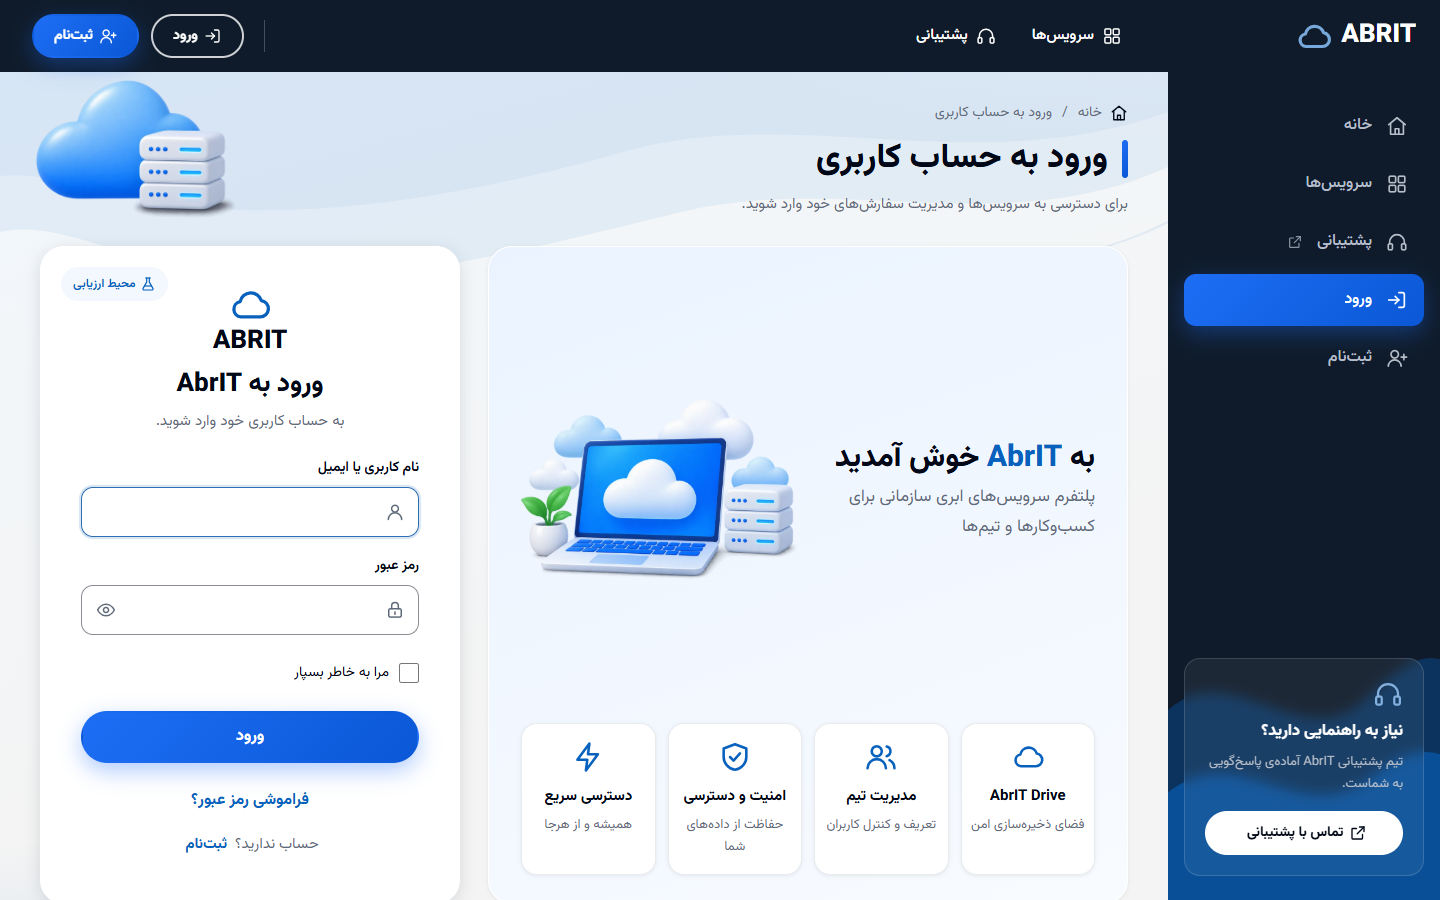
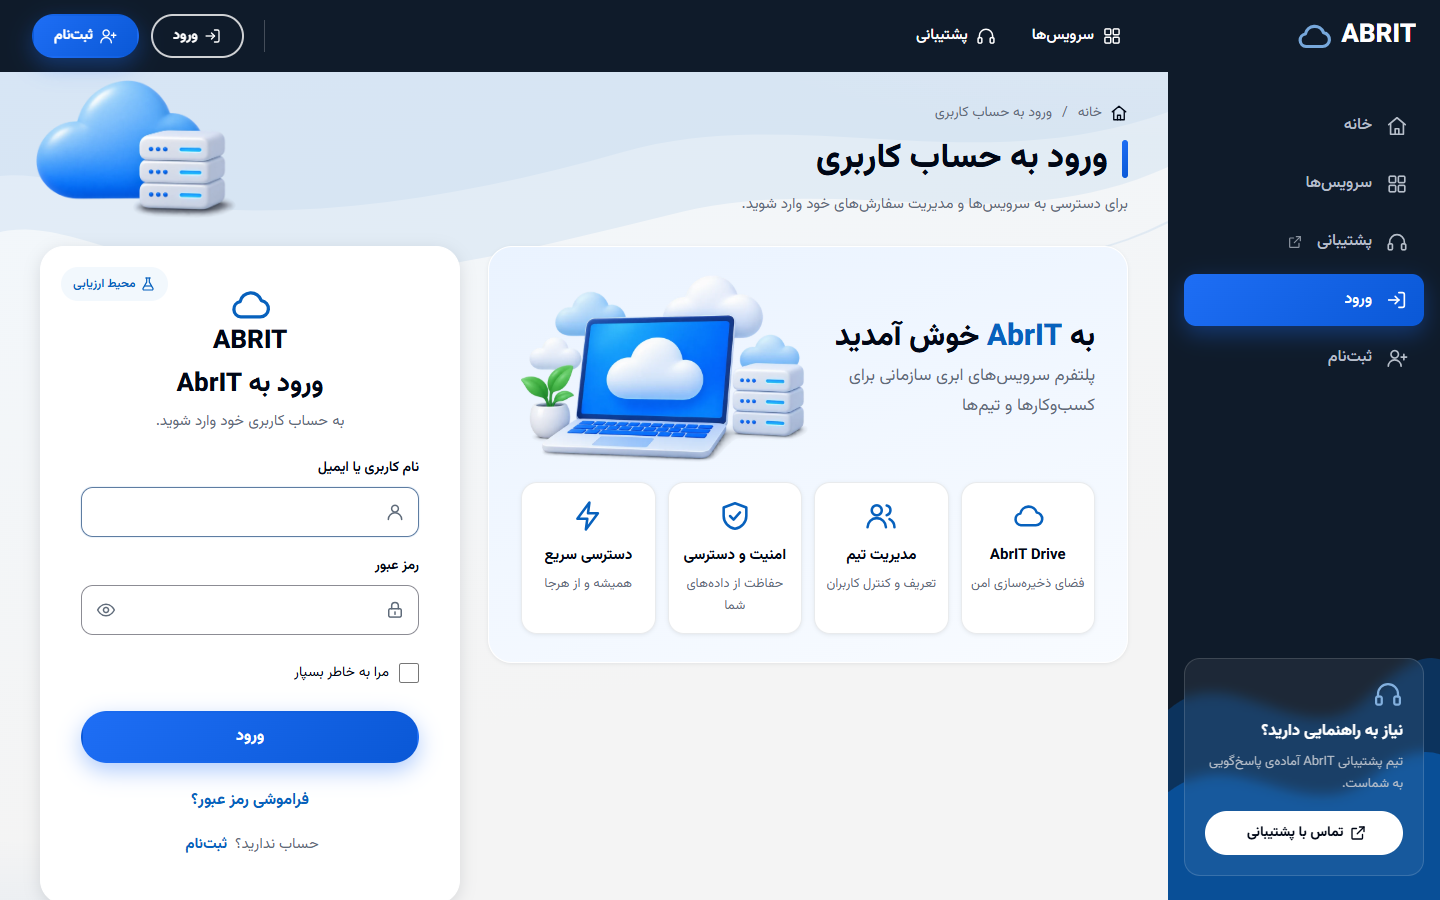
style(theme): tighten auth hero cards

diff --git a/src/AbrIT.Theme/wwwroot/css/theme.css b/src/AbrIT.Theme/wwwroot/css/theme.css
@@ -353,16 +353,18 @@ body.abr-noscroll{overflow:hidden}
 
 /* ---- Auth pages ---- */
 .abr-authpage{display:flex;flex-direction:column;gap:28px}
-.abr-auth-split{display:grid;grid-template-columns:minmax(0,1fr) minmax(360px,420px);gap:28px;align-items:stretch}
+.abr-auth-split{display:grid;grid-template-columns:minmax(0,1fr) minmax(360px,420px);gap:28px;align-items:start}
 .abr-hero{background:var(--abr-hero-gradient);border:1px solid var(--abr-surface);border-radius:24px;box-shadow:var(--abr-shadow-1);padding:28px 32px;display:flex;flex-direction:column;gap:20px}
-.abr-hero__top{flex:1;display:grid;grid-template-columns:minmax(0,1fr) 48%;gap:12px;align-items:center}
+.abr-hero__top{display:grid;grid-template-columns:minmax(0,1fr) 50%;gap:16px;align-items:center}
 .abr-hero__title{font-size:30px;line-height:46px;font-weight:var(--abr-fw-heavy);text-wrap:balance}
 .abr-hero__brand{color:var(--abr-primary)}
 .abr-hero__sub{margin-top:10px;color:var(--abr-text-2);font-size:17px;line-height:30px}
 .abr-hero__art img{width:100%;height:auto;display:block;margin-inline-end:-8px}
 /* tall card (register, ref 02): illustration on top, centred text under it */
+.abr-auth-split--tall{align-items:stretch}
+.abr-auth-split--tall .abr-hero{justify-content:flex-start;gap:24px}
 .abr-auth-split--tall .abr-hero__top{grid-template-columns:1fr;justify-items:center;text-align:center;align-content:center;gap:8px}
-.abr-auth-split--tall .abr-hero__art{order:-1;width:78%}
+.abr-auth-split--tall .abr-hero__art{order:-1;width:64%}
 .abr-auth-split--tall .abr-hero__title{font-size:34px;line-height:50px}
 .abr-features{display:grid;grid-template-columns:repeat(4,minmax(0,1fr));gap:12px;list-style:none;margin:0;padding:0}
 .abr-features li{background:var(--abr-surface);border:1px solid var(--abr-border);border-radius:var(--abr-radius-lg);padding:16px 8px;display:flex;flex-direction:column;align-items:center;text-align:center;gap:4px;box-shadow:var(--abr-shadow-1)}
